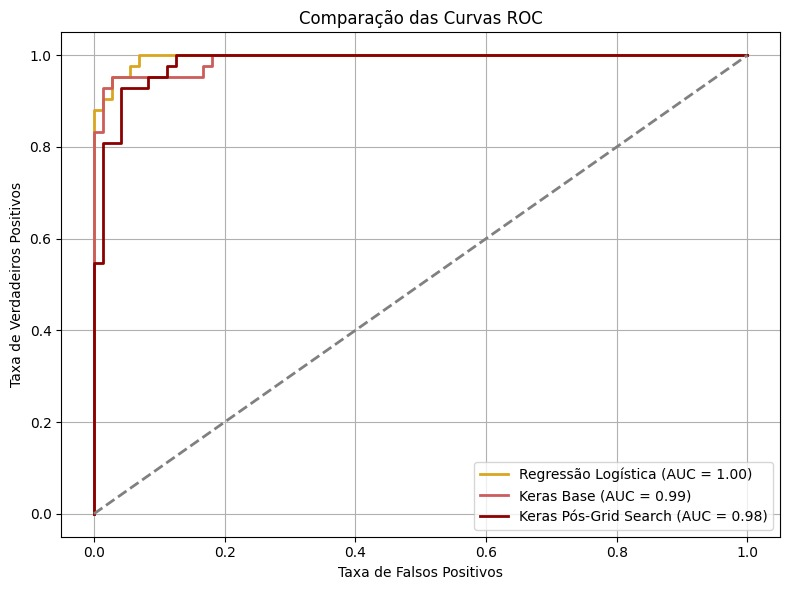
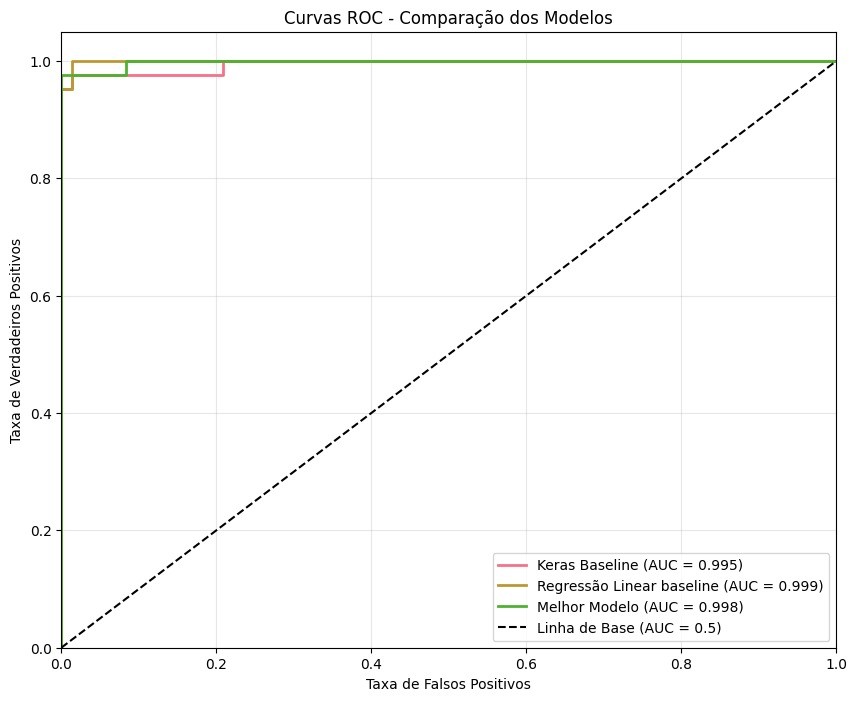
alteração de imagens

diff --git a/apresentacao_deep_learnig.html b/apresentacao_deep_learnig.html
@@ -1394,13 +1394,13 @@
                 <div class="result-card">
                     <h3><i class="fas fa-table icon"></i>Matriz de Confusão</h3>
                     <div class="image-container">
-                        <img src="imagens/matrizdeconfusao.jpeg" alt="Matriz de Confusão">
+                        <img src="imagens/matrizconfusao.png" alt="Matriz de Confusão">
                     </div>
                 </div>
                 <div class="result-card">
                     <h3><i class="fas fa-chart-line icon"></i>Convergência do Modelo</h3>
                     <div class="image-container">
-                        <img src="imagens/lineplot.png" alt="Convergência do Modelo">
+                        <img src="imagens/validacao.jpeg" alt="Convergência do Modelo">
                     </div>
                 </div>
                 <div class="result-card">
